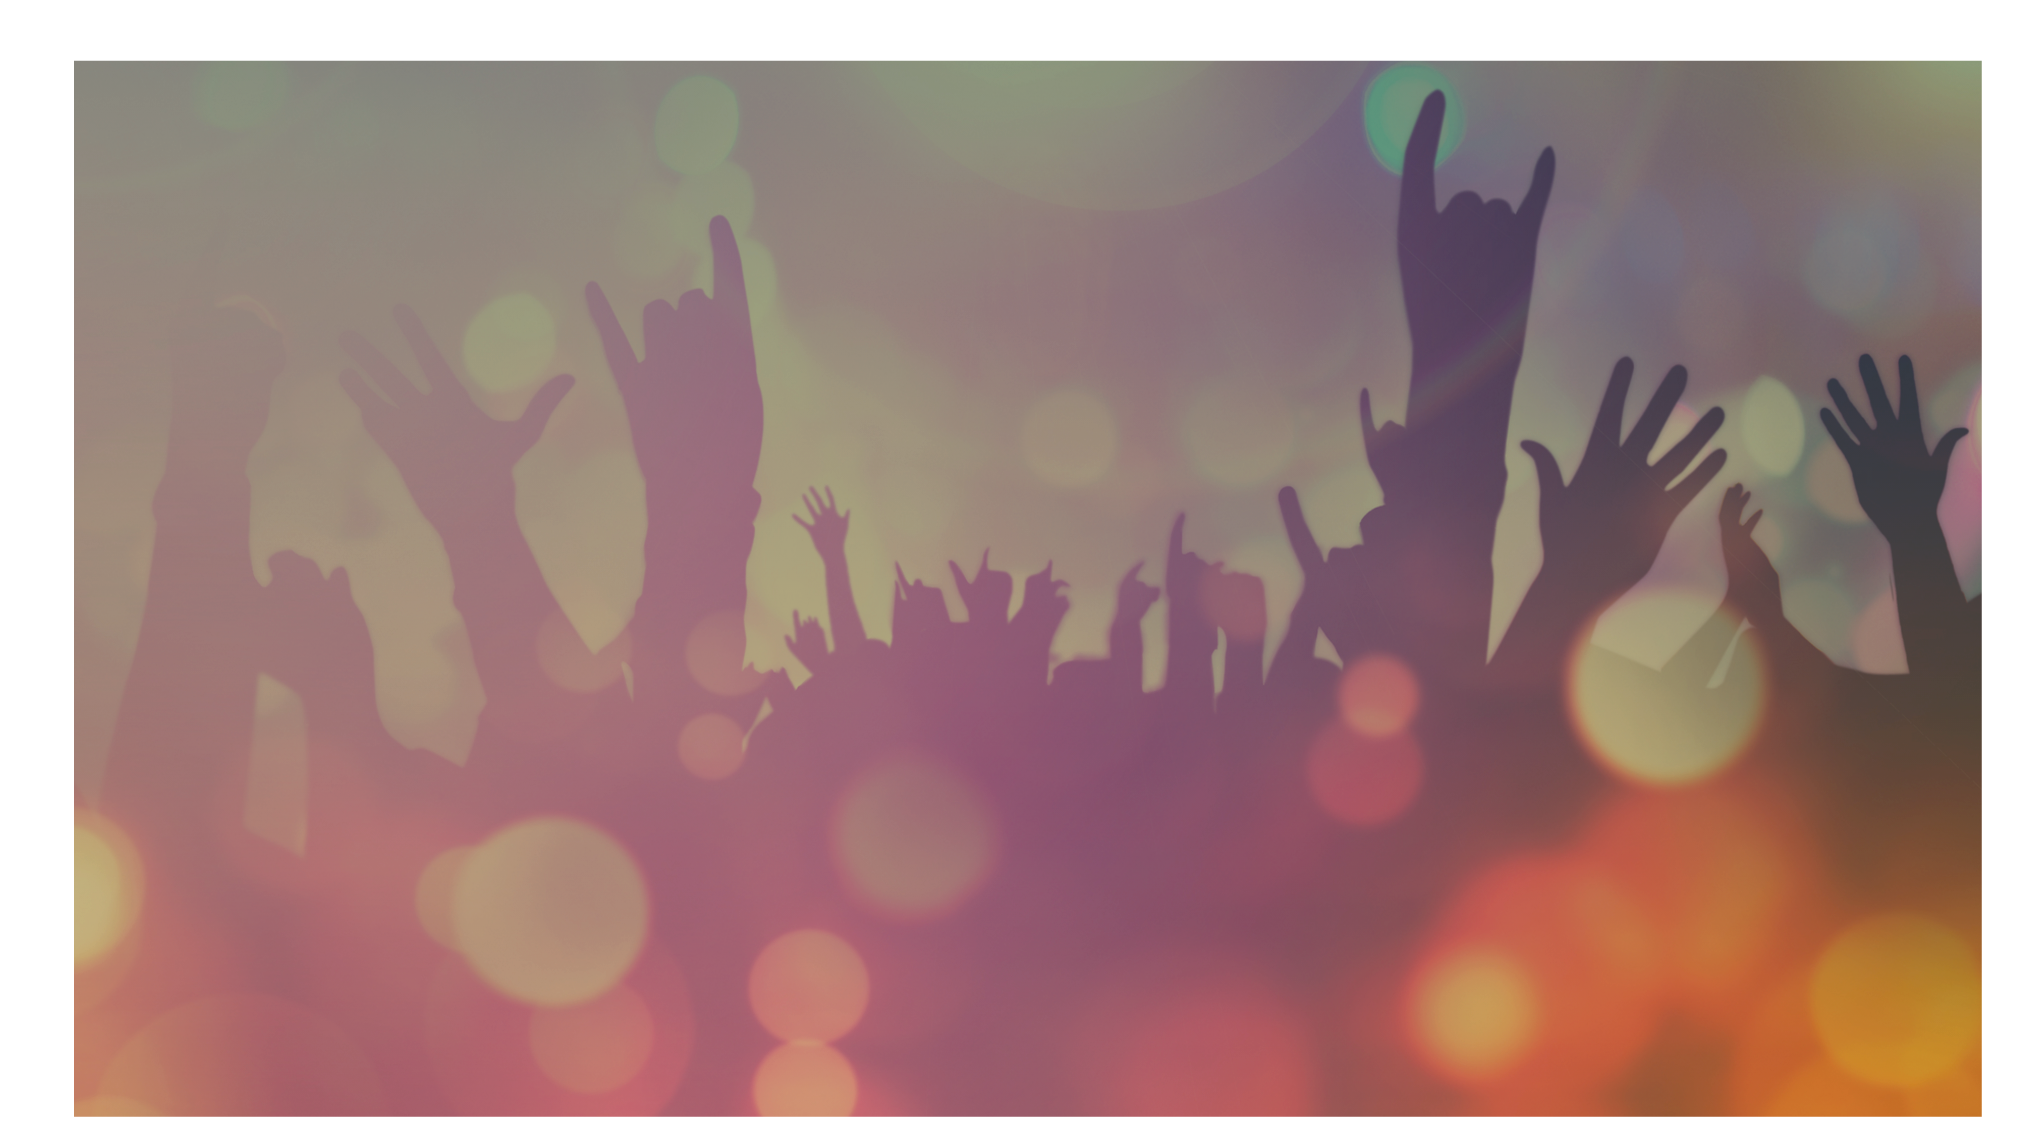
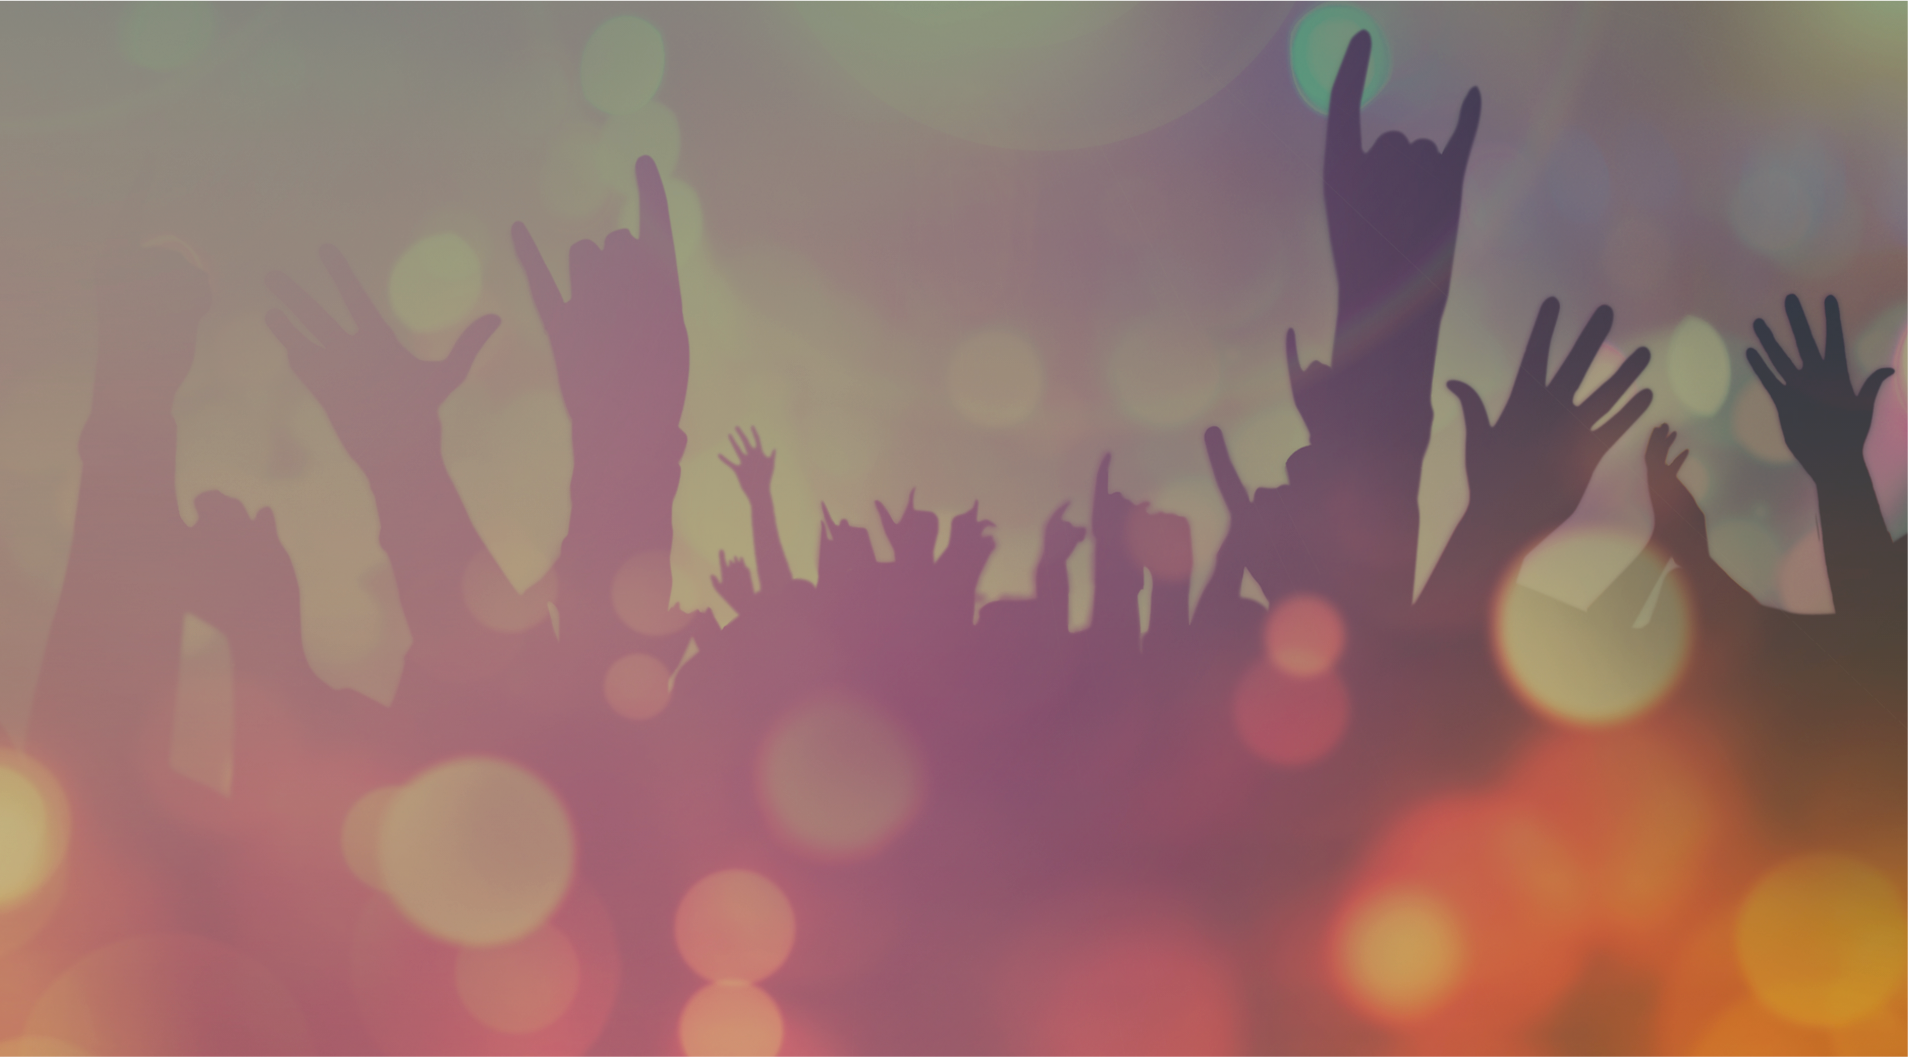
nueva ventana

diff --git a/6.html b/6.html
@@ -1,0 +1,77 @@
+<!DOCTYPE html>
+<html>
+<head>
+	<title></title>
+	<meta charset="utf-8">
+	<link rel="stylesheet" type="text/css" href="css/bootstrap.min.css">
+	<link rel="stylesheet" type="text/css" href="css/estilos.css">
+</head>
+
+<body>
+	<div class="barra_sup">
+		<div class="row">
+			<div class="col-sm-3 col-sm-offset-4">
+				<img src="img/Recursoswebcliente-03.png" width="100%">
+			</div>
+			<div class="col-sm-4">
+				<nav class="navbar pull-left">
+					<ul class="nav navbar-nav">
+						<li><a href="" class="active">Home</a></li>
+						<li><a href="">Login</a></li>
+						<li><a href="">Contáctanos</a></li>
+					</ul>
+				</nav>
+			</div>
+			<div class="col-sm-12">
+				<h3 class="text-center blanco">¿Qué te gustaría <b class="naranja">ofrecer?</b></h3>
+			</div>
+		</div>
+		
+		<div class="cont_central ">
+			<div class="row">
+				<div class="container">
+					<div class="col-sm-3">
+						<center><img src="img/b4.png" class="icon_4"></center>
+						<h4 class="text-center">Eventos</h4>
+					</div>
+					<div class="col-sm-3">
+						<center><img src="img/b5.png" class="icon_5"></center>
+						<h4 class="text-center">Comida</h4>
+					</div>
+					<div class="col-sm-3">
+						<center><img src="img/b6.png" class="icon_6"></center>
+						<h4 class="text-center">Aliados</h4>
+					</div>
+					<div class="col-sm-3">
+						<center><img src="img/b7.png" class="icon_7"></center>
+						<h4 class="text-center">Publicidad</h4>
+					</div>
+				</div>
+			</div>
+		</div>
+	</div>
+
+	<footer class="footer_naranja">
+		<div class="container">	
+			<div class="row">
+				<div class="col-sm-9">
+					<nav class="navbar">
+						<ul class="nav navbar-nav">
+							<li><a href="">ACTIVA TU MANILLA</a></li>
+							<li><a href="">NUESTRA FAMILIA</a></li>
+							<li><a href="">COMUNIDAD</a></li>
+							<li><a href="">LINKS</a></li><br>
+							<li><a href="">REPORTAR MANILLA!!</a></li>
+						</ul>
+					</nav>
+				</div>
+				<div class="col-sm-3 social">
+					<img src="img/Recursoswebcliente-10.png" width="30%">
+					<img src="img/Recursoswebcliente-11.png" width="30%">
+					<img src="img/Recursoswebcliente-12.png" width="30%">
+				</div>
+			</div>
+		</div>
+	</footer>
+</body>
+</html>

diff --git a/css/estilos.css b/css/estilos.css
@@ -1,3 +1,12 @@
+a.active{
+	font-weight: bold;
+}
+.blanco{
+	color: #fff;
+}
+.naranja{
+	color: #FF9700;
+}
 .barra_1{
 	background-color: #A9AE5E;
 }
@@ -9,9 +18,6 @@
 }
 .barra_2 ul li a{
 	color: #fff;
-}
-.barra_2 ul li a.active{
-	font-weight: bold;
 }
 .cont_central{
 	padding-bottom: 8em;
@@ -41,15 +47,37 @@
 	padding-top: 1em;
 	width: 80%;
 }
+.cont_central .icon_4{
+	padding-top: 2em;
+	width: 50%;
+}
+.cont_central .icon_5{
+	padding-top: 1em;
+	width: 50%;
+}
+.cont_central .icon_6{
+	padding-top: 2em;
+	width: 70%;
+}
+.cont_central .icon_7{
+	padding-top: 1em;
+	width: 55%;
+}
+.footer_naranja{
+	background-color: #FF9700;
+}
 .footer_azul{
 	background-color: #11B5B5;
-	padding: 2em;
 }
-.footer_azul ul li a{
+.footer_naranja, .footer_azul{
+	padding: 2em;
+	padding-top: 3em;
+}
+.footer_azul ul li a, .footer_naranja ul li a{
 	color: #fff;
 	font-weight: bold;
 }
-.footer_azul .social img{
+.footer_azul .social img, .footer_naranja .social img{
 	padding-left: 1em;
 }
 .row{
@@ -61,4 +89,22 @@
 	background: -o-linear-gradient(#83BE95, #BFC07E); /* For Opera 11.1 to 12.0 */
 	background: -moz-linear-gradient(#83BE95, #BFC07E); /* For Firefox 3.6 to 15 */
 	background: linear-gradient(#83BE95, #BFC07E); /* Standard syntax */
+}
+
+
+.barra_sup{
+	background-image: url(../img/Recursoswebcliente-27.png);
+	background-repeat: no-repeat;
+	background-size: 100% 100%; 
+	min-height: 650px;
+	padding-top: 4em;
+}
+.barra_sup nav, .barra_sup img{
+	display: inline-block;
+}
+.barra_sup nav{
+	padding-top: 1.5em;
+}
+.barra_sup nav ul li a{
+	color: #fff;
 }
